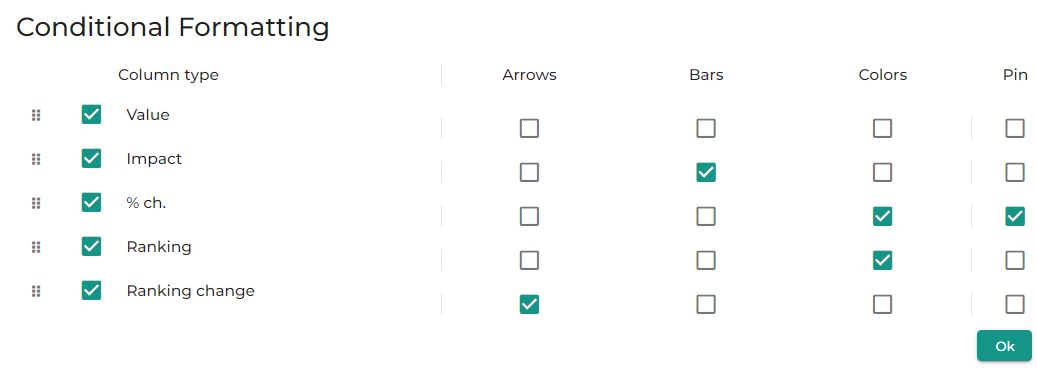
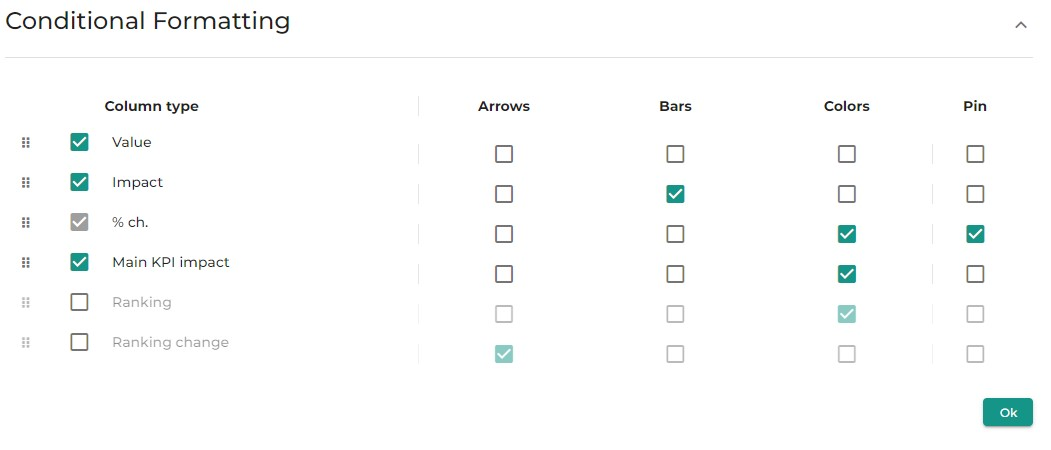
Compare - Table details

diff --git a/core_app/new/compare/interface/table.md b/core_app/new/compare/interface/table.md
@@ -20,18 +20,20 @@ The table allows to access a detail view of the data with the ability to refine 
 
 By changing the settings of the table you can choose to display 5 types of information: 
 - **Value**: new value of the ratio. (e.g: 2633 Users in referral for "this year")
-- **Impact**: differece of Value between <i>Start</i> and <i>End</i> (eg.: "this year" - "last year" = 2633)
+- **Impact**: the impact of the change between <i>Start</i> and <i>End</i> on the considered KPI 
+- **Main KPI Impact**: the impact of the change between <i>Start</i> and <i>End</i> on the total KPI in your market equation
 - **%ch**: evolution in percentage between <i>Start</i> and <i>End</i>
 - **Ranking**: Ranking of each element of the dimension by size at the <i>End</i>
 - **Ranking change**: evolution of the Ranking between <i>Start</i> and <i>End</i>
+
+Note that when activating a "Secondary Comparison", the secondary comparison values are displayed in the table in a subline in italic under "2nd comparison"
+
+## How could it look like?
 
 Change Formatting of the table by clicking on the Settings icon:
 <img src="{{site.url}}/{{site.baseurl}}/core_app/new/compare/interface/images/compare_editTableSettings.jpg">
 
 <br>
-
-
-## How could it look like?
 
 The display is adaptable according to your needs.
 
